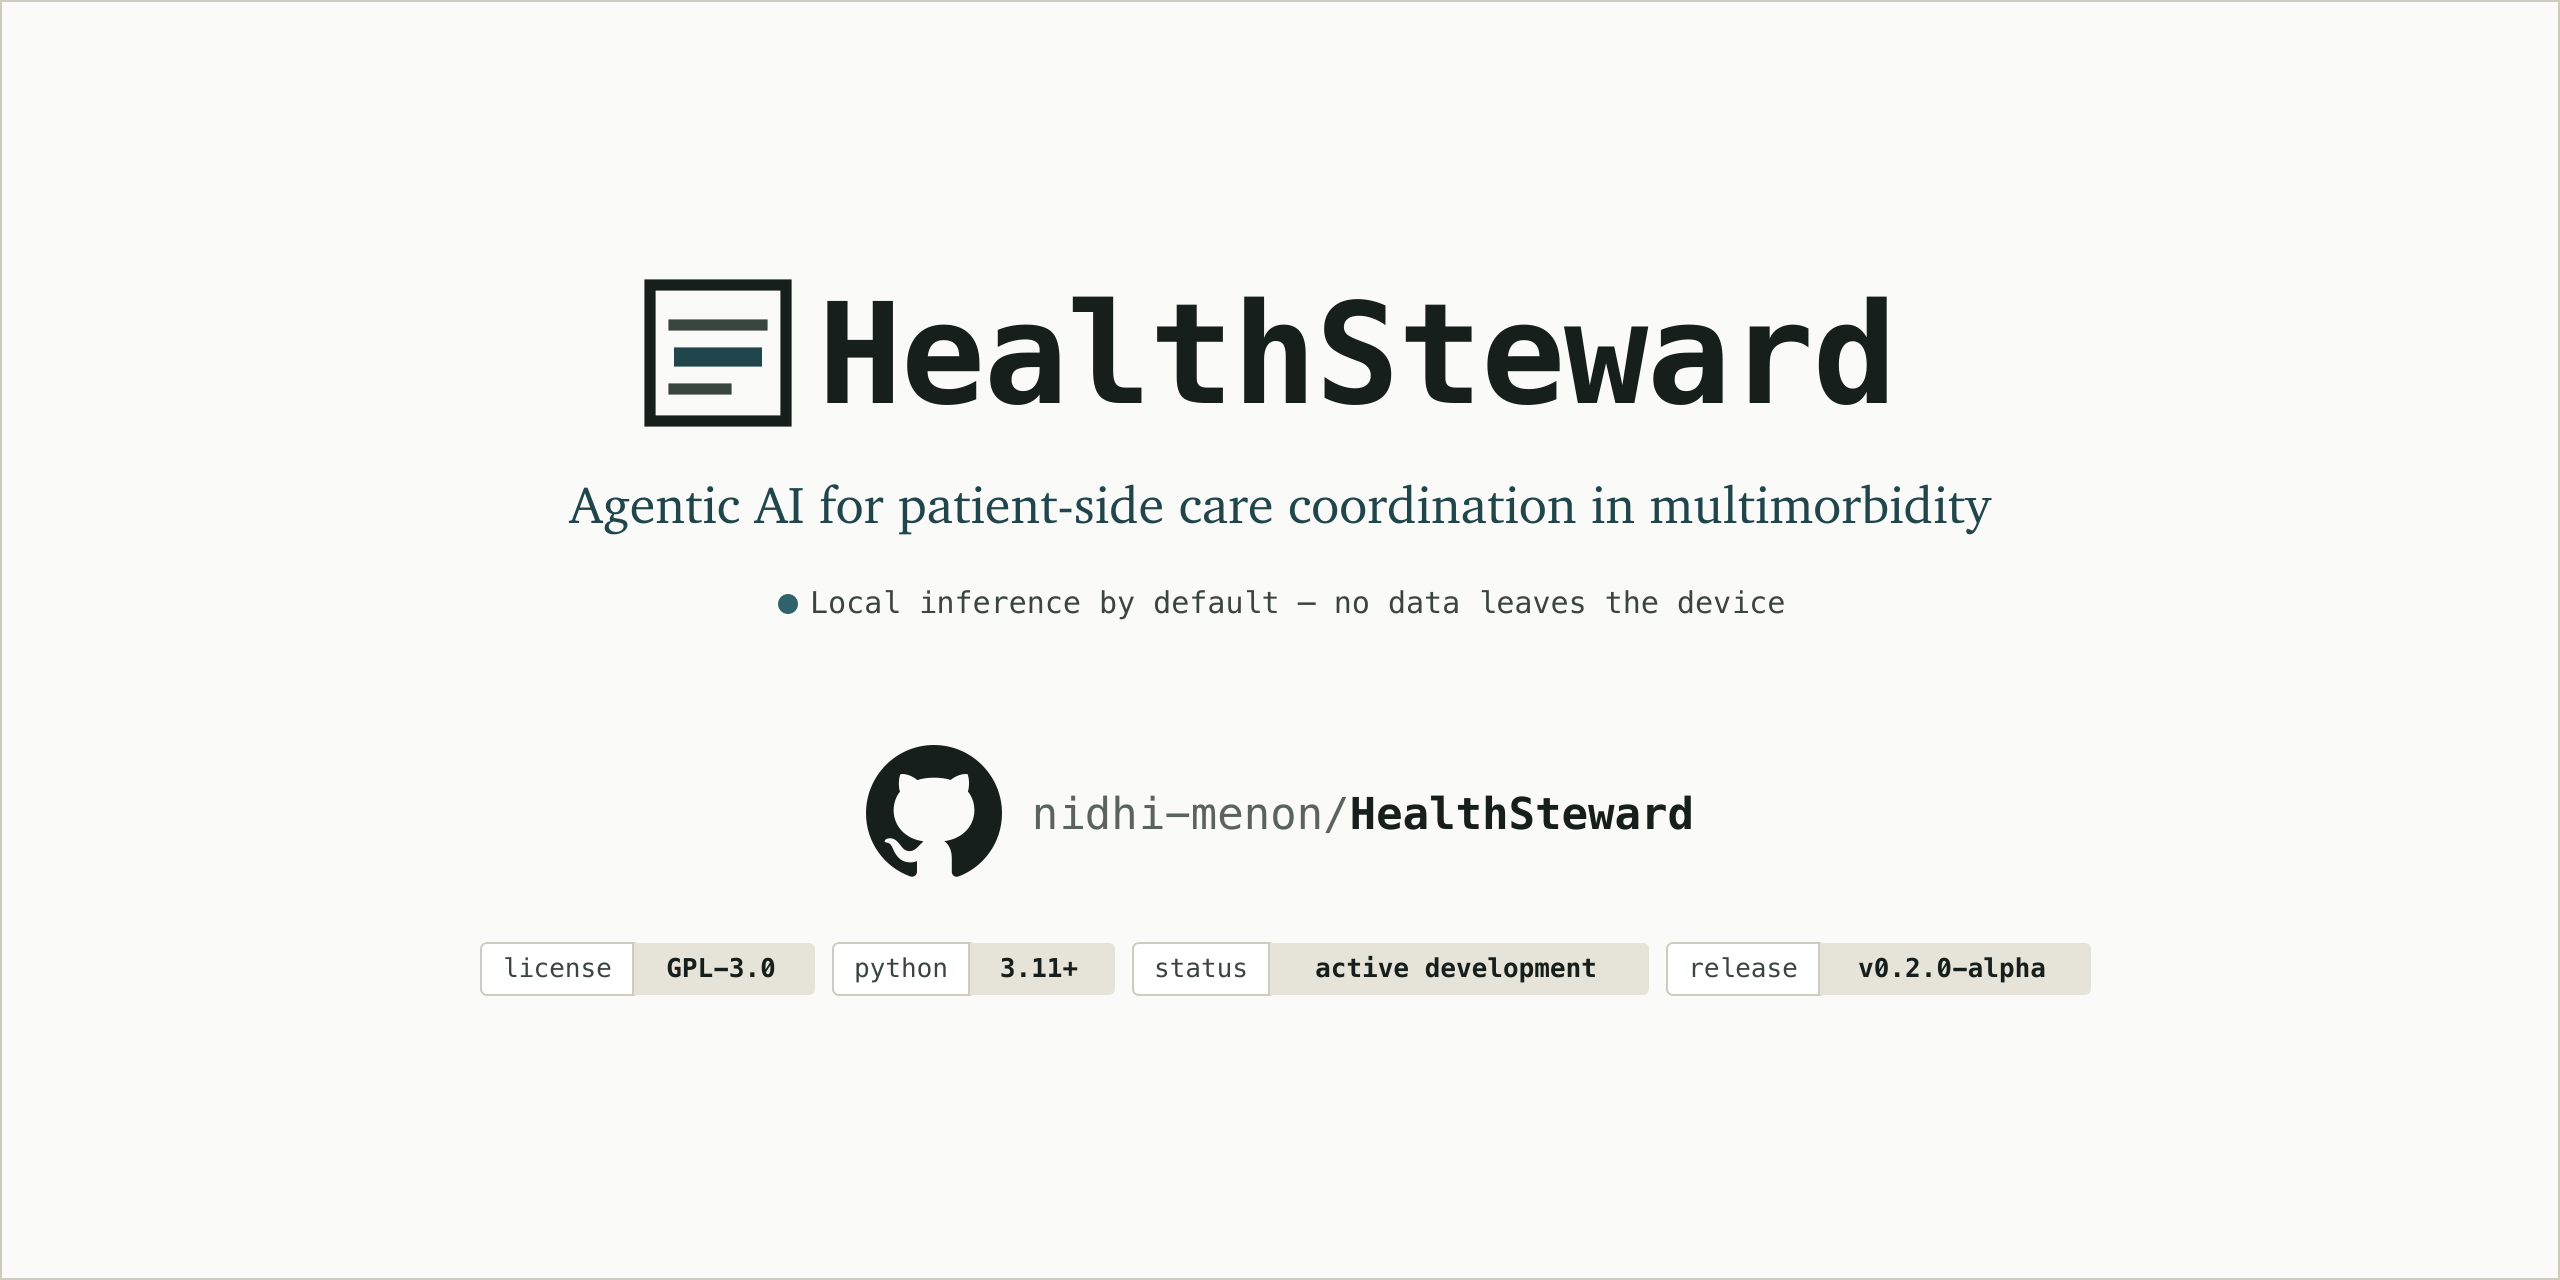
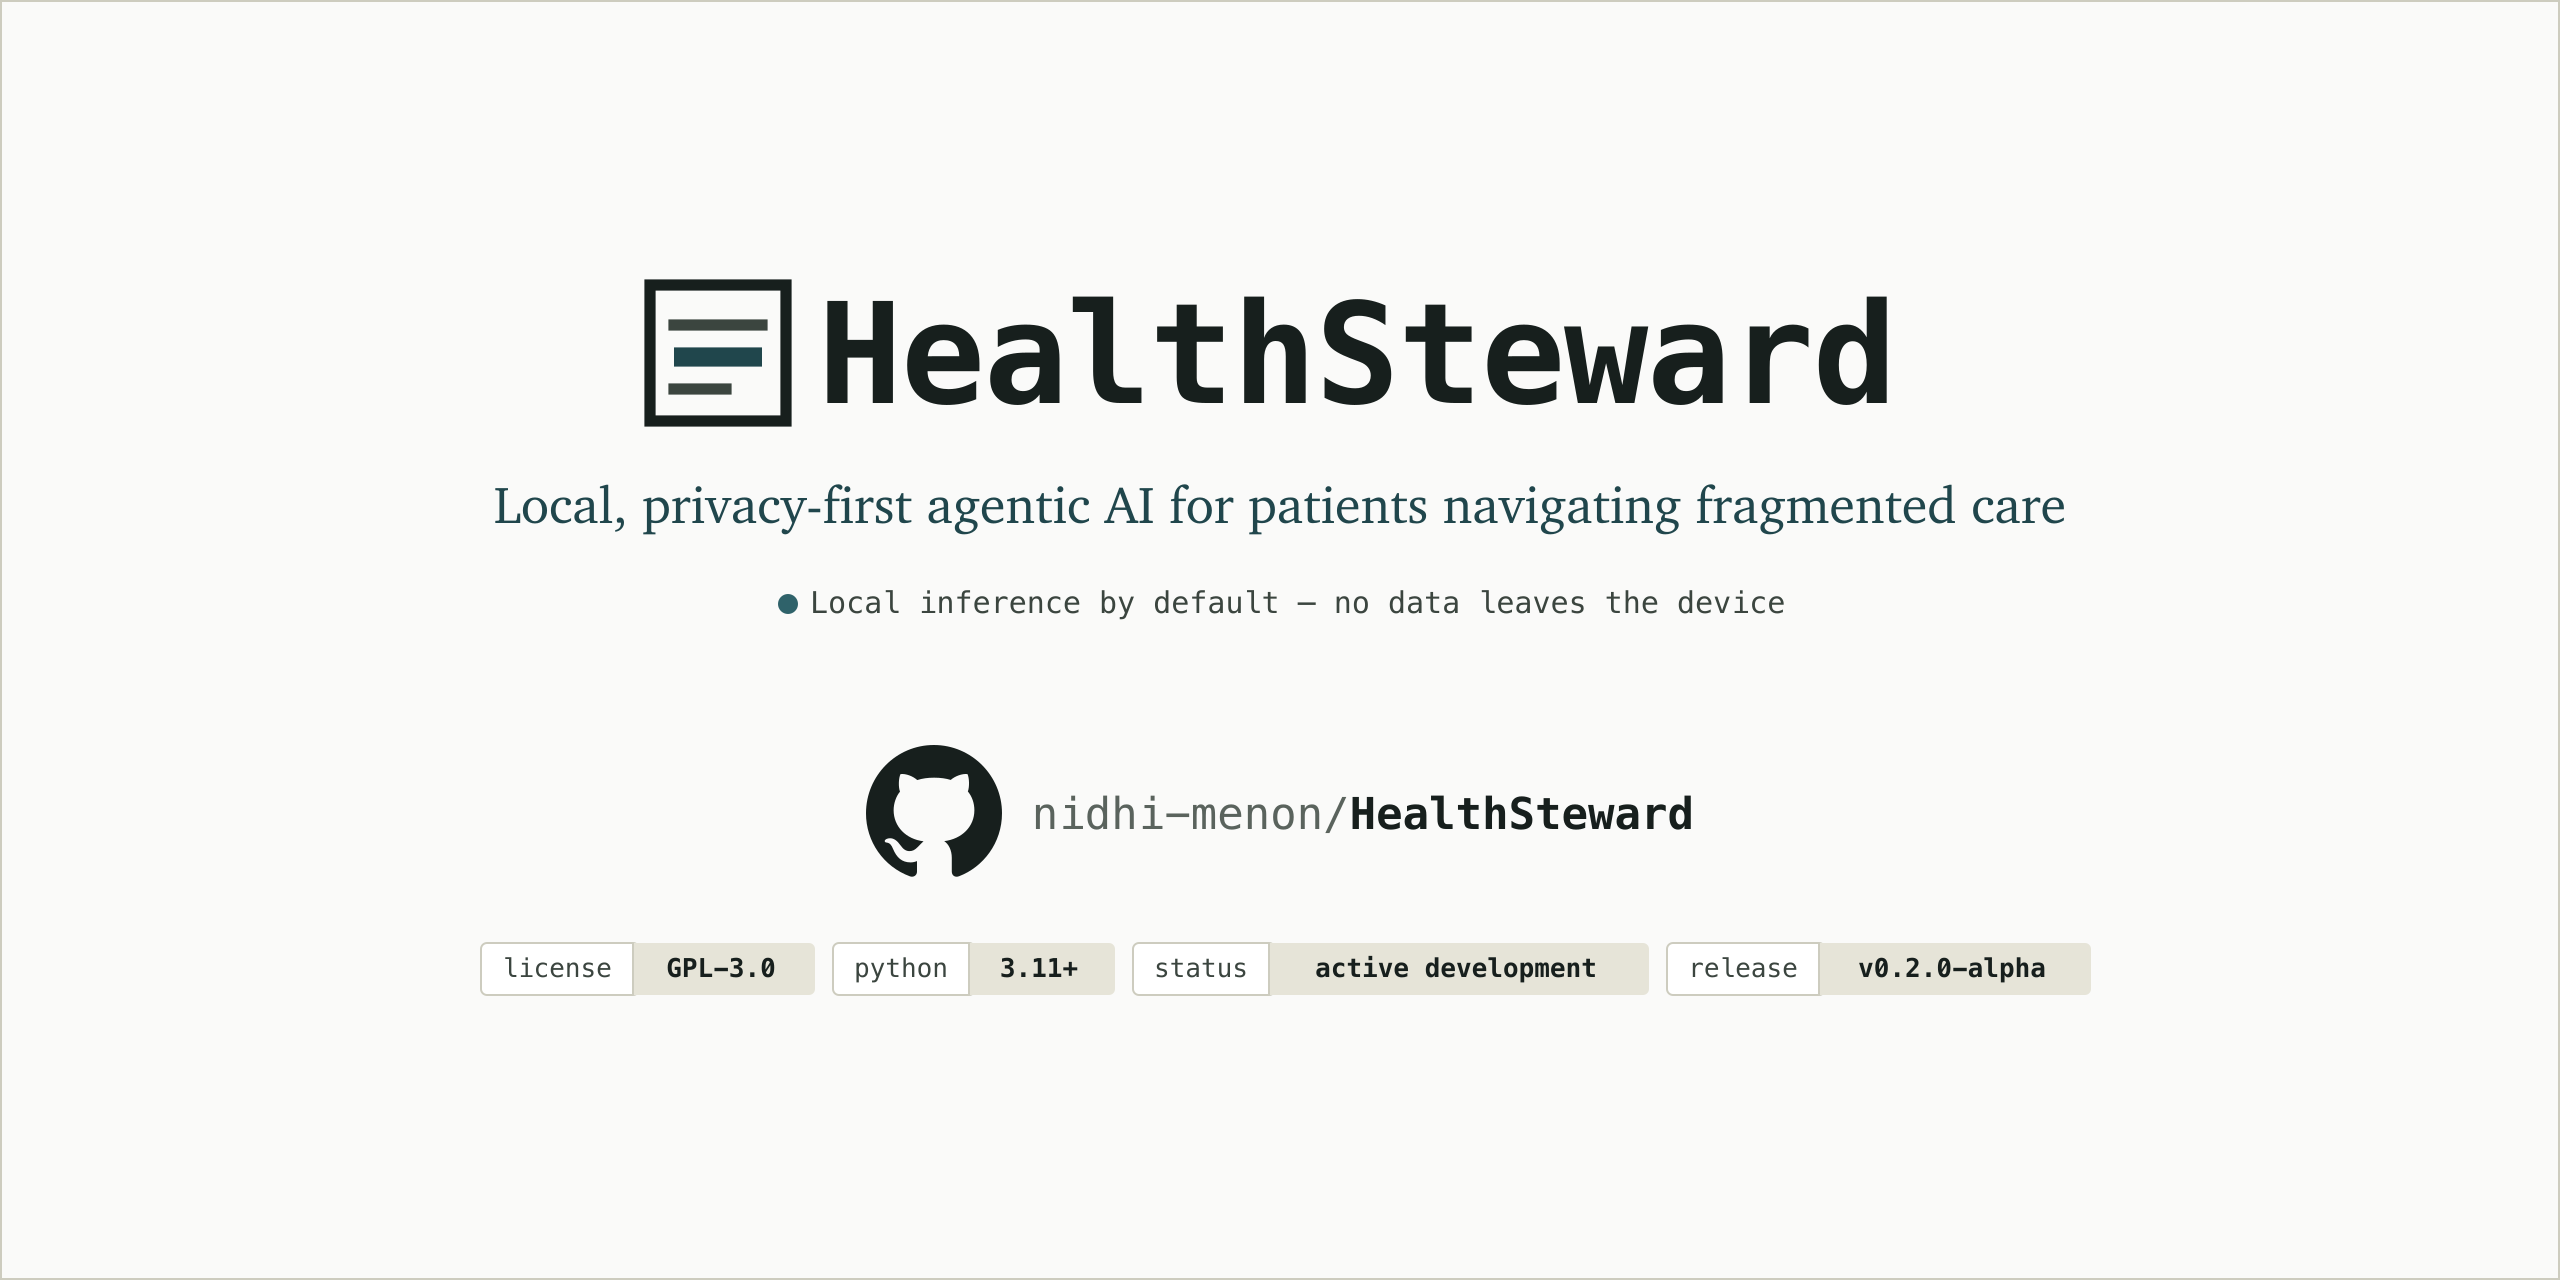
Update website links to custom domain, fix mobile layout bugs, sync tagline
- Replace every nidhi-menon.github.io/HealthSteward reference with the
  new custom domain (README, docs/index.html and docs/tdd.html og:url
  tags) — confirmed via full-repo sweep, none left anywhere. The
  custom domain (healthstewardai.com) is already live: CNAME file and
  GitHub Pages custom-domain config were set up directly on GitHub,
  HTTPS certificate approved and enforced, confirmed serving HTTP 200.
- Fix three real mobile-breaking bugs found during a "is the site
  mobile-friendly" audit:
  - tdd.html's .arch-wide had a hard clamp(700px, ...) floor, forcing
    the architecture diagram to 700px wide on every phone regardless
    of viewport — guaranteed horizontal overflow. Reset to a normal
    contained block below the existing 860px sidebar breakpoint.
  - Both files' header/footer nav rows had no wrap fallback; footer
    nav in particular got riskier after adding a 5th link (LinkedIn).
    Added wrapping at a 640px breakpoint.
  - Three font-sizes were below the site's own documented 10.5px
    accessibility floor (SITE_STYLE_GUIDE.md) — one compounded by the
    diagram's zoom:0.8 down to an effective 8px. Bumped all three
    back above the floor.
- Update the social preview card to the canonical tagline ("Local,
  privacy-first agentic AI for patients navigating fragmented care"),
  which had been held uncommitted since the tagline was finalized —
  confirmed the longer text still fits on one line with margin before
  swapping.

Changed region(s): [[0.1875, 0.375, 0.8125, 0.4375]]

diff --git a/docs/tdd.html b/docs/tdd.html
@@ -11,7 +11,7 @@
      shared tdd.html link falls back to scraping whatever the scraper finds
      first, not necessarily the intended title/description. -->
 <meta property="og:type" content="website">
-<meta property="og:url" content="https://nidhi-menon.github.io/HealthSteward/tdd.html">
+<meta property="og:url" content="https://healthstewardai.com/tdd.html">
 <meta property="og:title" content="HealthSteward — Technical Design Document">
 <meta property="og:description" content="System design, architecture decisions, and tradeoffs behind HealthSteward — local, privacy-first agentic AI for patients navigating fragmented care.">
 <meta property="og:image" content="https://raw.githubusercontent.com/nidhi-menon/HealthSteward/main/docs/assets/social-preview.png">
@@ -231,7 +231,7 @@
     background: var(--paper-raised);
   }
   .arch-phase-title {
-    font-family: ui-monospace, monospace; font-size: 10px; font-weight: 700; text-transform: uppercase;
+    font-family: ui-monospace, monospace; font-size: 14px; font-weight: 700; text-transform: uppercase;
     letter-spacing: 0.06em; color: var(--ink-faint); margin-bottom: 10px;
   }
   .arch-phase-row { display: flex; align-items: center; gap: 10px; row-gap: 12px; flex-wrap: wrap; }
@@ -350,13 +350,13 @@
     font-weight: 700; color: var(--teal-bright);
   }
   .schema-root svg { flex: none; width: 14px; height: 14px; color: var(--teal-bright); }
-  .schema-rel { font-family: ui-monospace, monospace; font-size: 10px; color: var(--ink-faint); margin: 8px 0 8px 4px; }
+  .schema-rel { font-family: ui-monospace, monospace; font-size: 11px; color: var(--ink-faint); margin: 8px 0 8px 4px; }
   .schema-children { display: flex; flex-wrap: wrap; gap: 8px; }
   .schema-node {
     border: 1px solid var(--line); border-radius: 4px; background: var(--paper);
     padding: 6px 9px; font-family: ui-monospace, monospace; font-size: 11px; color: var(--ink);
   }
-  .schema-node .schema-sub { color: var(--ink-faint); font-size: 10px; margin-left: 4px; }
+  .schema-node .schema-sub { color: var(--ink-faint); font-size: 11px; margin-left: 4px; }
   .schema-group--support { background: none; border-style: dashed; }
 
   /* boundary cards, reused from landing page */
@@ -451,6 +451,19 @@
     nav.side.open { transform: translateX(0); }
     .menu-btn { display: inline-block; }
     main.content { padding: 28px 20px 80px; }
+
+    /* .arch-wide's clamp(700px, ...) had a hard 700px floor — forced every
+       phone (375-428px wide) into horizontal overflow to show this diagram.
+       Below the sidebar breakpoint there's no reading column to break out
+       of anyway (.panel is already ~full width here), so just go back to a
+       normal contained block instead of the negative-margin breakout trick. */
+    .arch-wide { width: 100%; margin-left: 0; transform: none; }
+
+    /* header.top had no wrap fallback — brand text ("HealthSteward /
+       Technical Design Document") + two back-links + the menu button all in
+       one non-wrapping flex row overflowed on phone widths (~375-428px). */
+    header.top { flex-wrap: wrap; row-gap: 8px; padding: 14px 16px; }
+    .top-actions { flex-wrap: wrap; row-gap: 6px; }
   }
 </style>
 </head>
@@ -466,7 +479,7 @@
     </svg>
     HealthSteward <span style="color:var(--ink-faint); font-weight:400;">/ Technical Design Doc</span>
   </div>
-  <div style="display:flex; align-items:center; gap:14px;">
+  <div class="top-actions" style="display:flex; align-items:center; gap:14px;">
     <a class="back" href="index.html">← project site</a>
     <a class="back" href="https://github.com/nidhi-menon/HealthSteward">github</a>
     <button class="menu-btn" id="menuBtn" aria-label="Toggle navigation" aria-expanded="false" aria-controls="sideNav">menu</button>

diff --git a/docs/index.html b/docs/index.html
@@ -11,7 +11,7 @@
      show the project identity, not whatever heading text a scraper falls back to
      scanning when these are absent. -->
 <meta property="og:type" content="website">
-<meta property="og:url" content="https://nidhi-menon.github.io/HealthSteward/">
+<meta property="og:url" content="https://healthstewardai.com/">
 <meta property="og:title" content="HealthSteward">
 <meta property="og:description" content="Local, privacy-first agentic AI for patients navigating fragmented care.">
 <meta property="og:image" content="https://raw.githubusercontent.com/nidhi-menon/HealthSteward/main/docs/assets/social-preview.png">
@@ -259,6 +259,15 @@
   .boundary p { margin: 0; font-size: 14.5px; color: var(--ink-soft); }
   @media (max-width: 620px) {
     .boundaries { grid-template-columns: 1fr; }
+  }
+
+  /* header/footer nav rows had no wrap fallback — brand + nav links (5 in the
+     footer, after adding LinkedIn) forced horizontal overflow below ~440px.
+     Stack onto their own row instead of scrolling the whole page sideways. */
+  @media (max-width: 640px) {
+    header.top { flex-wrap: wrap; row-gap: 10px; }
+    .top nav { flex-wrap: wrap; row-gap: 8px; width: 100%; }
+    footer nav { flex-wrap: wrap; row-gap: 8px; }
   }
 
   /* install block styled like a form/prescription strip */

diff --git a/README.md b/README.md
@@ -12,7 +12,7 @@
 ![status](https://img.shields.io/badge/status-active%20development-2f626a)
 ![release](https://img.shields.io/github/v/release/nidhi-menon/HealthSteward?include_prereleases&color=20464c)
 
-**[Website](https://nidhi-menon.github.io/HealthSteward/) · [LinkedIn](https://www.linkedin.com/company/healthsteward-ai/) · [GitHub Discussions](https://github.com/nidhi-menon/HealthSteward/discussions) · [Report a Bug](https://github.com/nidhi-menon/HealthSteward/issues) · [Request a Feature](https://github.com/nidhi-menon/HealthSteward/issues)**
+**[Website](https://healthstewardai.com/) · [LinkedIn](https://www.linkedin.com/company/healthsteward-ai/) · [GitHub Discussions](https://github.com/nidhi-menon/HealthSteward/discussions) · [Report a Bug](https://github.com/nidhi-menon/HealthSteward/issues) · [Request a Feature](https://github.com/nidhi-menon/HealthSteward/issues)**
 
 If HealthSteward is useful to you, consider giving it a ⭐ — it helps this reach more people navigating fragmented care.
 